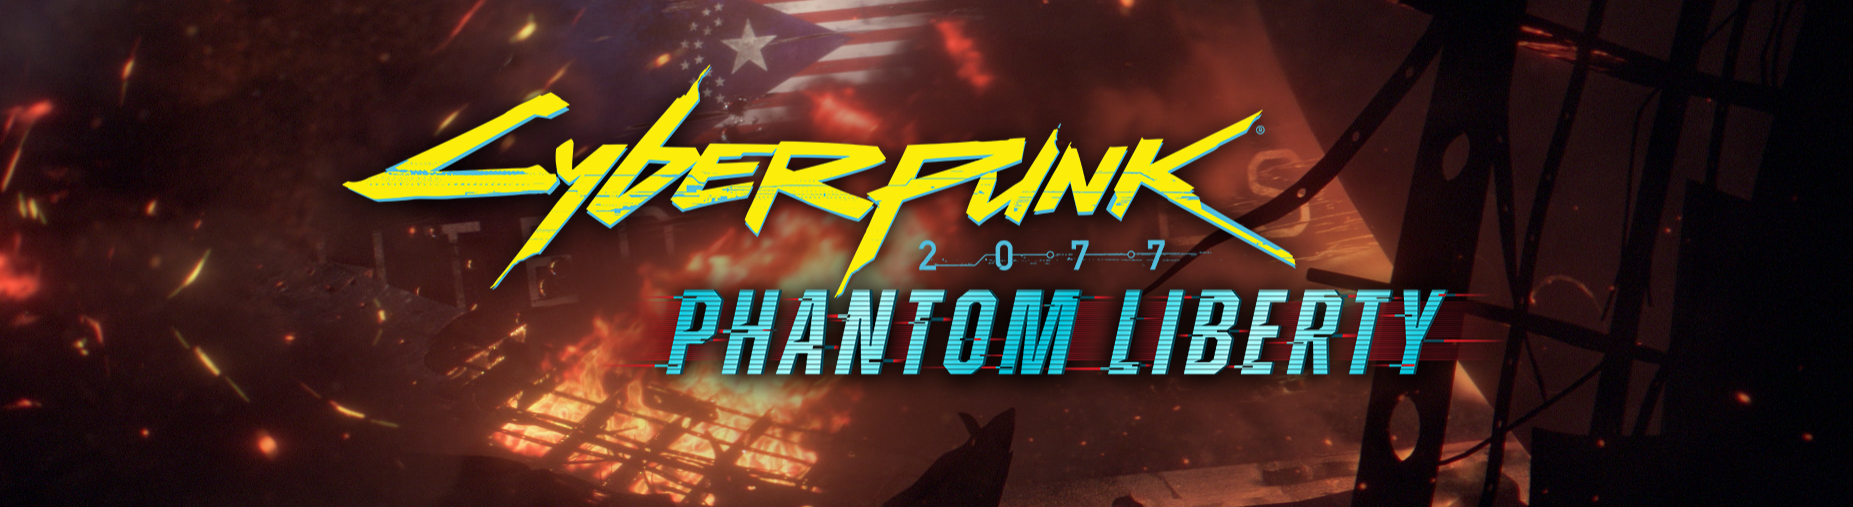
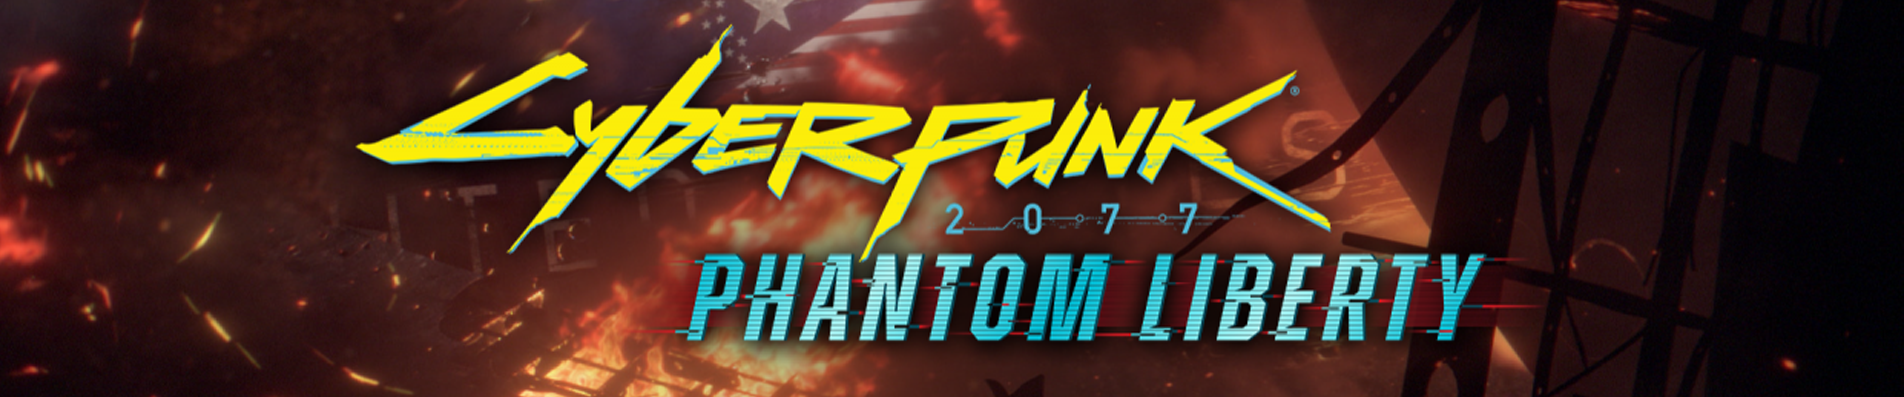
img carosello resize

diff --git a/src/app/carousel/carousel.component.css b/src/app/carousel/carousel.component.css
@@ -1,53 +1,62 @@
 
-.slide1, .slide2 {
-  display: none}
-img {
-  vertical-align: middle;
-}
-.carosello {
-  max-width: 500px;
-  position: relative;
-  margin: auto;
-}
-.prec, .succ {
-  cursor: pointer;
-  user-select:none;
-  position: absolute;
-  top: 50%;
-  width: 40px;
-  height:40px;
-  border:2px solid #DDDDDD;
-  color: rgb(45,45,45);
-  font-size: 18px;
-  transition: 0.5s ease;
-  border-radius:50%;
-  text-align: center;
-  line-height: 38px;
-  background-color: white;
-}
-.succ {
-  right: 0;
-  background-color: white;
-}
-.prec:hover, .succ:hover {
-  background-color: #000000;
-  color: black;
-}
-img{
-    background-size: cover;
-}
 
-.image-container {
-    width: 100%; 
-  height: 100%; 
-  display: flex;
-  align-items: center; 
-  justify-content: center; 
-}
-
-    img {
-        position: absolute;
-        width: 100%;
+.carousel {
+    max-width:fit-content;
+    position: relative;
+    margin: auto;
+  }
+  
+  .image-container {
+    width: 100%;
     height: 100%;
-    object-fit: cover;
-      }
+  }
+  
+  img {
+    width: 100%; 
+    height: 100%; 
+    object-fit: cover; 
+  }
+  
+  .prec, .succ {
+    cursor: pointer;
+    user-select: none;
+    position: absolute;
+    top: 50%;
+    width: 40px;
+    height: 40px;
+    border: 2px solid #DDDDDD;
+    color: rgb(45, 45, 45);
+    font-size: 18px;
+    transition: 0.5s ease;
+    border-radius: 50%;
+    text-align: center;
+    line-height: 38px;
+    background-color: white;
+    margin-inline: 2%;
+  }
+  
+  .succ {
+    right: 0;
+    background-color: white;
+  }
+  
+  .prec:hover, .succ:hover {
+    background-color: #000000;
+    color: black;
+  }
+  
+  @media screen and (max-width: 768px) {
+    .carousel {
+      max-width: 100%;
+    }
+  
+    .image-container {
+      padding-top: 75%; 
+    }
+  }
+  
+  @media screen and (max-width: 480px) {
+    .image-container {
+      padding-top: 100%; 
+    }
+  }

diff --git a/src/app/services/services.service.ts b/src/app/services/services.service.ts
@@ -131,8 +131,8 @@ export class ServicesService {
 
   carousel : string[]= [
     
-      'https://static.cdprojektred.com/cms.cdprojektred.com/16x9_big/56c9f65d12f0e9e7d16c7d47d1d00991d04dcca6-1920x1080.jpg',
-      'https://twistedvoxel.com/wp-content/uploads/2023/08/starfield.jpg'
+      'https://raw.githubusercontent.com/chiaraferrara/AppServices/master/src/app/img/phantom_liberty.png?token=GHSAT0AAAAAACIBWKBUE2WV7DT5OWN7Q4XCZJOV6XA',
+      'https://raw.githubusercontent.com/chiaraferrara/AppServices/master/src/app/img/starfield.jpg?token=GHSAT0AAAAAACIBWKBUSKMDHWSFE34UJBYYZJOV7IA'
     
   ];
   

diff --git a/src/app/carousel/carousel.component.html b/src/app/carousel/carousel.component.html
@@ -1,7 +1,7 @@
 <div class="carousel">
     
-    <div class="image-container">
-        <img style="width: auto;"[src]="currentImage">     
+    <div class="image-container" >
+        <img [src]="currentImage">     
     </div>
     <button class="prec" (click)="servizio.prevSlide()">&larr;</button>
     <button class="succ" (click)="servizio.nextSlide()">&rarr;</button>
